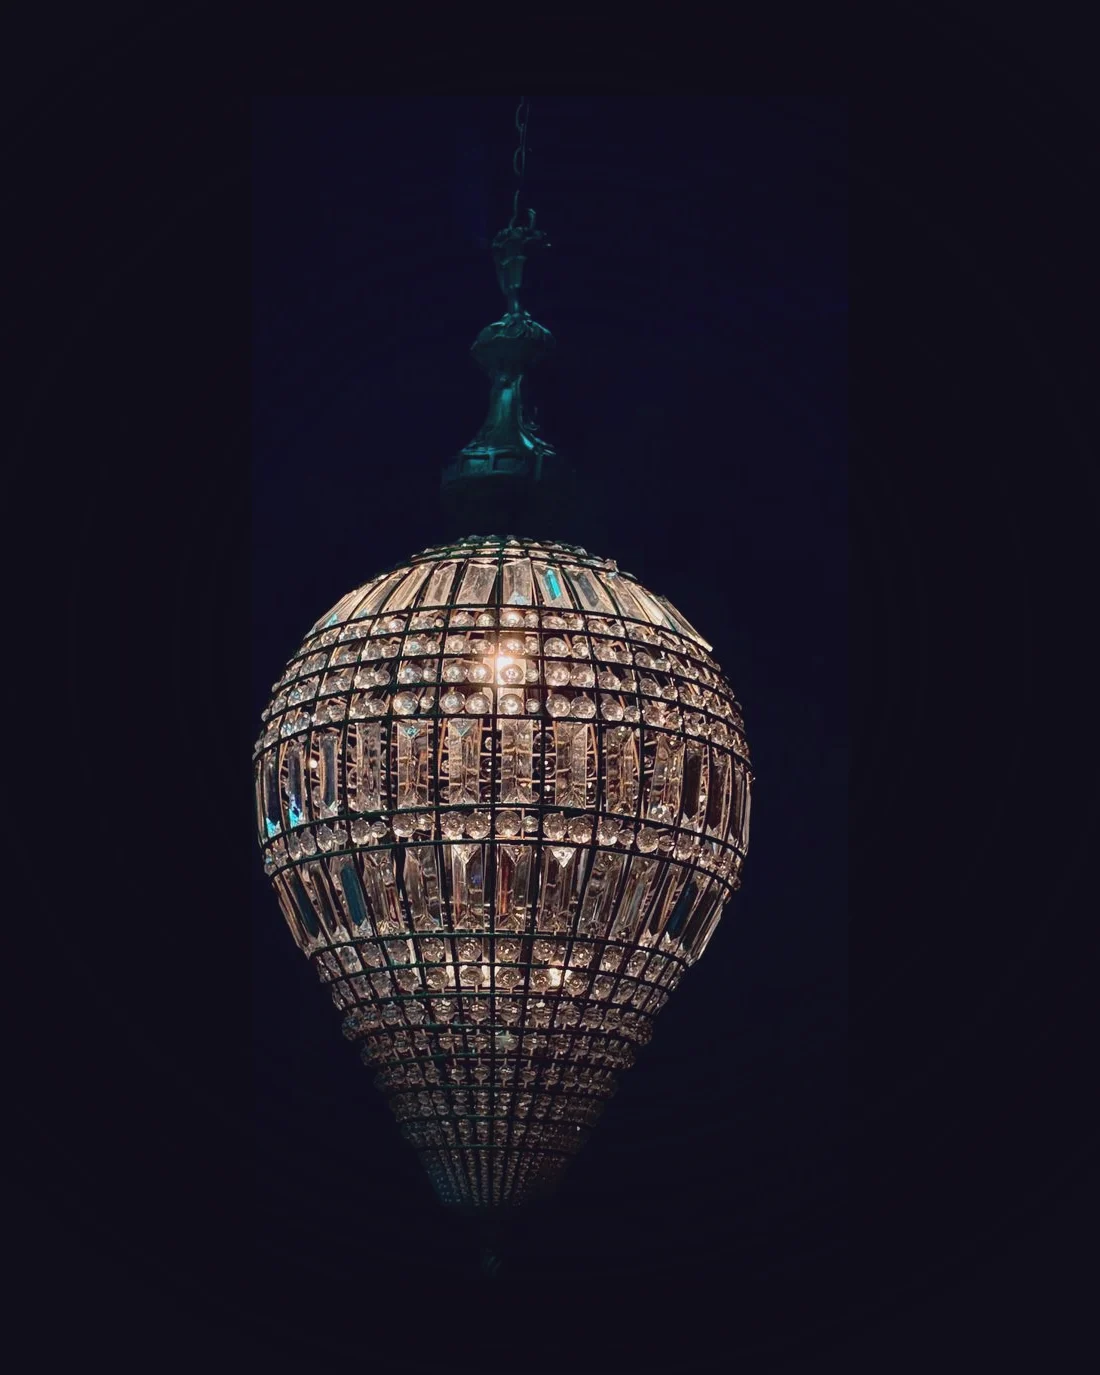
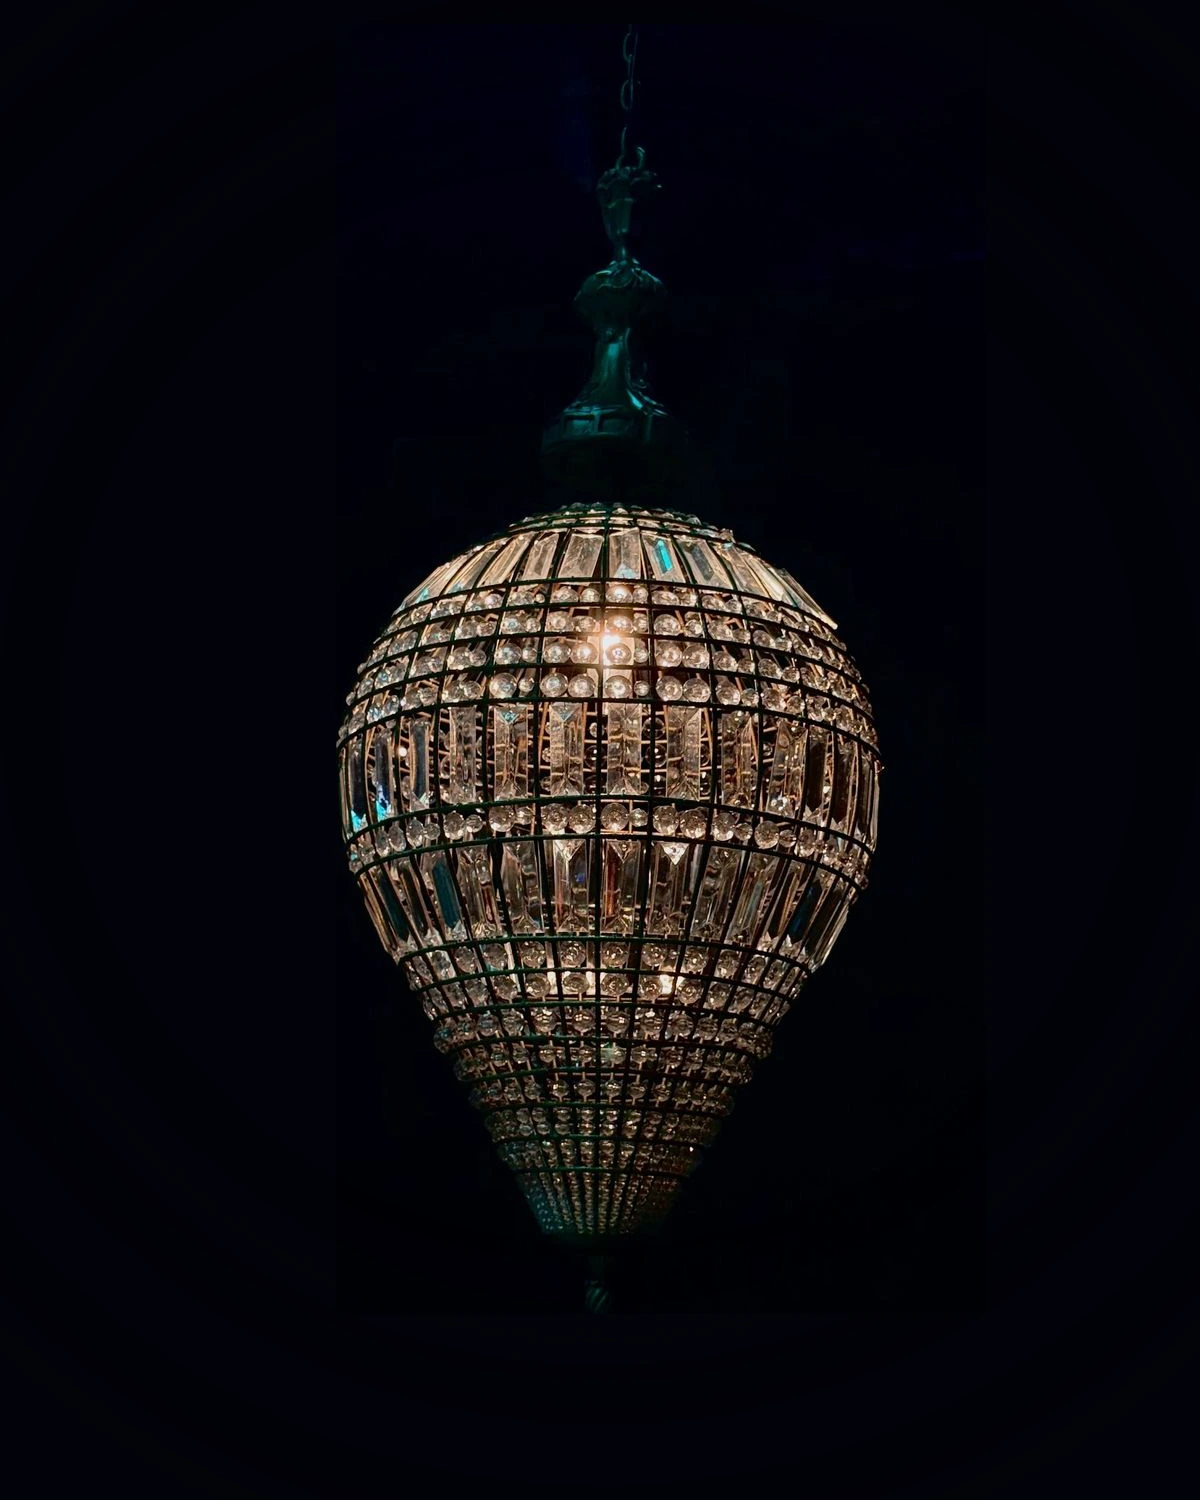
Fotos catálogo alta calidad, centradas y sin recuadro + quitar textos 29
- Regeneradas en alta resolución sin blend (negros intactos, sin lavado)
- Fondo de tarjeta igualado al negro real de las fotos -> sin recuadro
- Centrado por centro de masa (los productos con cadena quedan centrados)
- Quitados los textos que mostraban 29 (stat del hero y hint del catálogo)

Changed region(s): [[0.2164, 0.0916, 0.7727, 0.8858]]

diff --git a/css/styles.css b/css/styles.css
@@ -274,8 +274,8 @@ input, textarea, select { font-family: inherit; }
   display: grid; grid-template-columns: repeat(auto-fill, minmax(250px, 1fr)); gap: 24px;
 }
 .card {
-  position: relative; background: var(--surface);
-  border: 1px solid var(--line-soft); border-radius: var(--radius); overflow: hidden;
+  position: relative; background: #020309;
+  border: 1px solid var(--line); border-radius: var(--radius); overflow: hidden;
   display: flex; flex-direction: column;
   transition: transform 0.4s var(--ease), border-color 0.4s, box-shadow 0.4s;
 }
@@ -284,7 +284,7 @@ input, textarea, select { font-family: inherit; }
 .card.selected::after { content: ""; position: absolute; inset: 0; border: 1px solid var(--gold); border-radius: var(--radius); pointer-events: none; z-index: 5; }
 
 .card-media {
-  position: relative; aspect-ratio: 4 / 5; background: var(--surface);
+  position: relative; aspect-ratio: 4 / 5; background: #020309;
   overflow: hidden; cursor: zoom-in;
 }
 .card-media.is-light { background: radial-gradient(circle at 50% 38%, #ffffff, #d7d3e4 82%); }

diff --git a/index.html b/index.html
@@ -85,7 +85,6 @@
           <a href="#contact" class="btn btn-ghost" data-i18n="hero.cta2">Cotizar por WhatsApp</a>
         </div>
         <div class="hero-stats">
-          <div><strong>29</strong><span data-i18n="hero.stat1">piezas en catálogo</span></div>
           <div><strong>7</strong><span data-i18n="hero.stat2">categorías</span></div>
           <div><strong>100%</strong><span data-i18n="hero.stat3">montaje profesional</span></div>
         </div>
@@ -112,7 +111,6 @@
       </div>
 
       <div class="catalog-reveal" id="catalogReveal">
-        <p class="reveal-hint" id="revealHint"></p>
         <button class="btn btn-gold catalog-toggle" id="catalogToggle" aria-expanded="false" aria-controls="catalogBody">
           <span data-i18n="catalog.show">Ver productos</span>
           <svg viewBox="0 0 24 24" aria-hidden="true" class="chev"><path d="M6 9l6 6 6-6" fill="none" stroke="currentColor" stroke-width="2" stroke-linecap="round" stroke-linejoin="round"/></svg>
